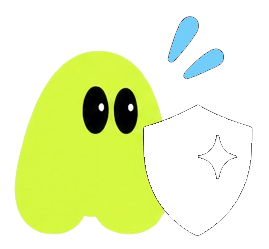
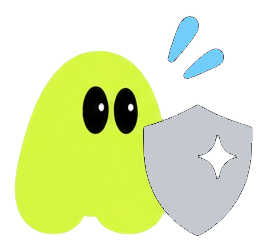
Recolor shield from white to silver
Flat white read as a cutout/sticker rather than an actual shield.
Silver (rgb(196, 201, 207)) looks more like real shield/metal
material while keeping the same contrast against the dark waarom
section background. Bumped the cache-busting version.

Changed region(s): [[0.5353, 0.4217, 0.9517, 0.9558]]

diff --git a/index.html b/index.html
@@ -92,7 +92,7 @@
     <section id="waarom">
       <div class="waarom-header">
         <h2>Waarom Under Pressure?</h2>
-        <img class="waarom-mascot" src="assets/mascotte-schild.png?v=3" alt="Under Pressure mascotte met een schild, symbool voor betrouwbaarheid" loading="lazy">
+        <img class="waarom-mascot" src="assets/mascotte-schild.png?v=4" alt="Under Pressure mascotte met een schild, symbool voor betrouwbaarheid" loading="lazy">
       </div>
       <div class="values-grid">
         <div class="value-card">

diff --git a/CLAUDE.md b/CLAUDE.md
@@ -41,9 +41,11 @@ Stays working as long as: the repo stays public, the Combell domain registration
 ## Mascot
 `assets/mascotte-*.png` are cropped/cutout from a 4x3 sprite sheet the client supplied, background made transparent. Currently used: `mascotte-hogedruk` (hero), `mascotte-schild` (waarom section), `mascotte-piepen` (footer, decorative/`aria-hidden`).
 
-**Cache-busting:** each `<img src="assets/mascotte-*.png">` in `index.html` has a `?v=N` query param. Bump it whenever a mascot PNG's *content* changes (not on unrelated edits) — GitHub Pages/browsers cache these images by filename, and without a version bump a visitor's browser can keep showing a stale image for a long time after a fix ships, which looks like the fix didn't work. Current: hogedruk `v=2`, schild `v=3`, piepen `v=4`.
+**Cache-busting:** each `<img src="assets/mascotte-*.png">` in `index.html` has a `?v=N` query param. Bump it whenever a mascot PNG's *content* changes (not on unrelated edits) — GitHub Pages/browsers cache these images by filename, and without a version bump a visitor's browser can keep showing a stale image for a long time after a fix ships, which looks like the fix didn't work. Current: hogedruk `v=2`, schild `v=4`, piepen `v=4`.
 
-`mascotte-schild` and `mascotte-piepen` are used on dark sections, but their prop (the shield / the wall) and the small droplet marks were originally drawn solid black — invisible against a dark background. Fixed by connected-component analysis on the black pixels: the prop is always the one big (~9500px) blob, recolored white; among the small (~350-900px) blobs, the ones touching the lime body are eyes (left black), the ones floating free of the body are the droplet marks, recolored to the same water-blue as the spray in `mascotte-hogedruk` (`rgb(115, 205, 250)`) since they read as water splashes. Uses 4-connectivity with a strict darkness threshold. `mascotte-hogedruk`'s gun/hose prop was left black (no contrast problem there, it's not the biggest thing on a dark section the way the shield/wall were) — only its two droplet marks were recolored blue; a ~23px fleck near the gun trigger was excluded by a minimum-size check so it doesn't get mistaken for a droplet. If more poses from the sprite sheet get used later on a dark section, check for the same issue.
+`mascotte-schild` and `mascotte-piepen` are used on dark sections, but their prop (the shield / the wall) and the small droplet marks were originally drawn solid black — invisible against a dark background. Fixed by connected-component analysis on the black pixels: the prop is always the one big (~9500px) blob; among the small (~350-900px) blobs, the ones touching the lime body are eyes (left black), the ones floating free of the body are the droplet marks, recolored to the same water-blue as the spray in `mascotte-hogedruk` (`rgb(115, 205, 250)`) since they read as water splashes. Uses 4-connectivity with a strict darkness threshold.
+
+The shield itself is `rgb(196, 201, 207)` (a light steel silver), not pure white — flat white read as a "cutout sticker" rather than a shield/metal object; silver looks more like actual shield material while keeping the same contrast against the dark background. `mascotte-hogedruk`'s gun/hose prop was left black (no contrast problem there, it's not the biggest thing on a dark section the way the shield/wall were) — only its two droplet marks were recolored blue; a ~23px fleck near the gun trigger was excluded by a minimum-size check so it doesn't get mistaken for a droplet. If more poses from the sprite sheet get used later on a dark section, check for the same issue.
 
 **`mascotte-piepen` needed one more fix beyond connectivity settings:** in the original art, the visible eye actually *touches* the wall (no gap between them), so even with 4-connectivity they're genuinely one connected shape — no threshold change can separate them. Recoloring that whole shape white turned part of the eye white too, which read as a second eye. Fixed by computing the wall's dominant column bounds (median left/right edge across rows) and reclassifying anything outside that band — the part that was actually the touching eye — back to black instead of white.
 
